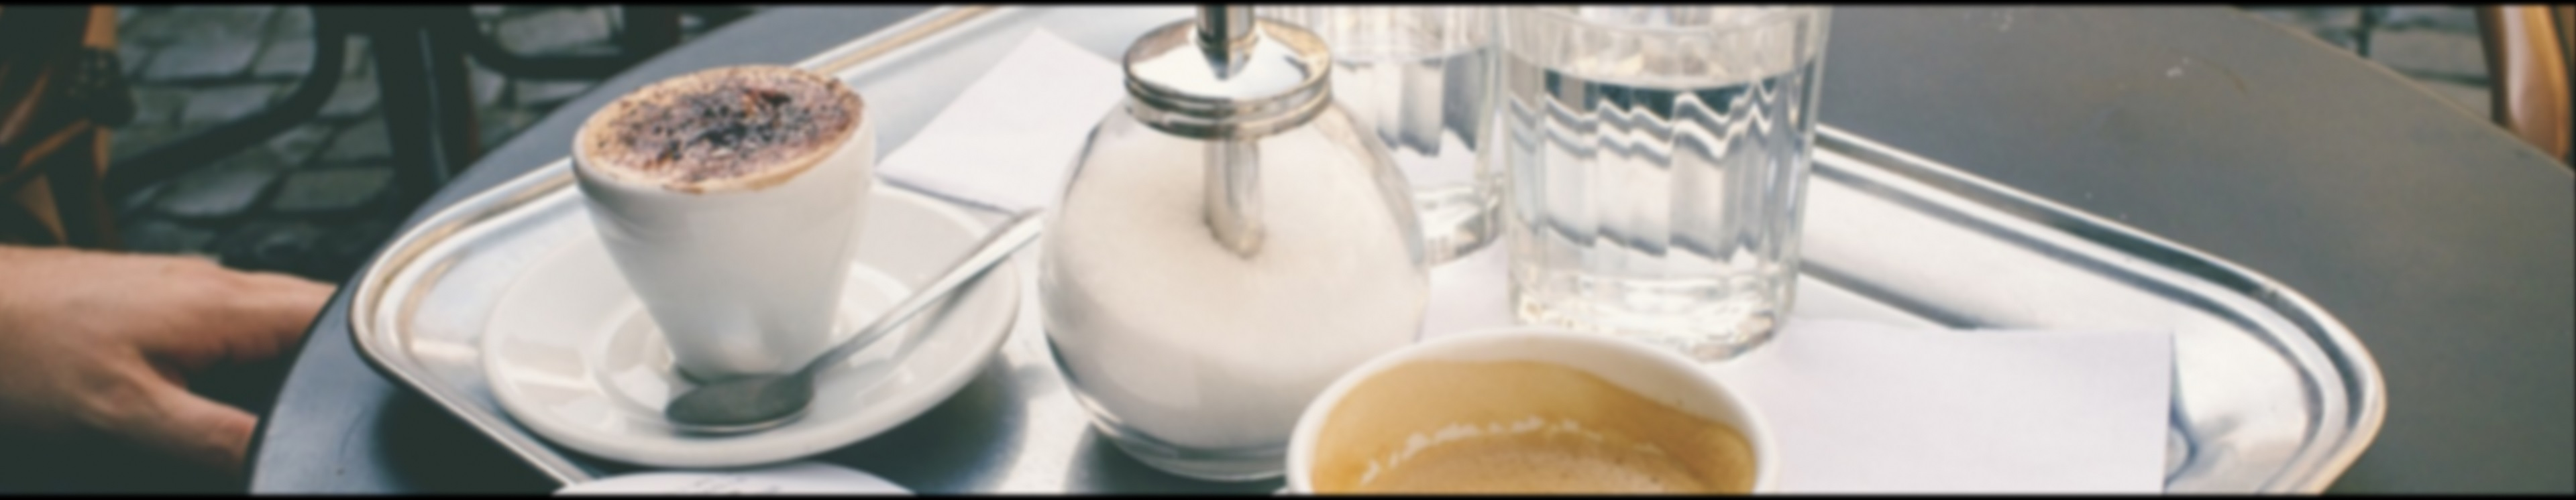
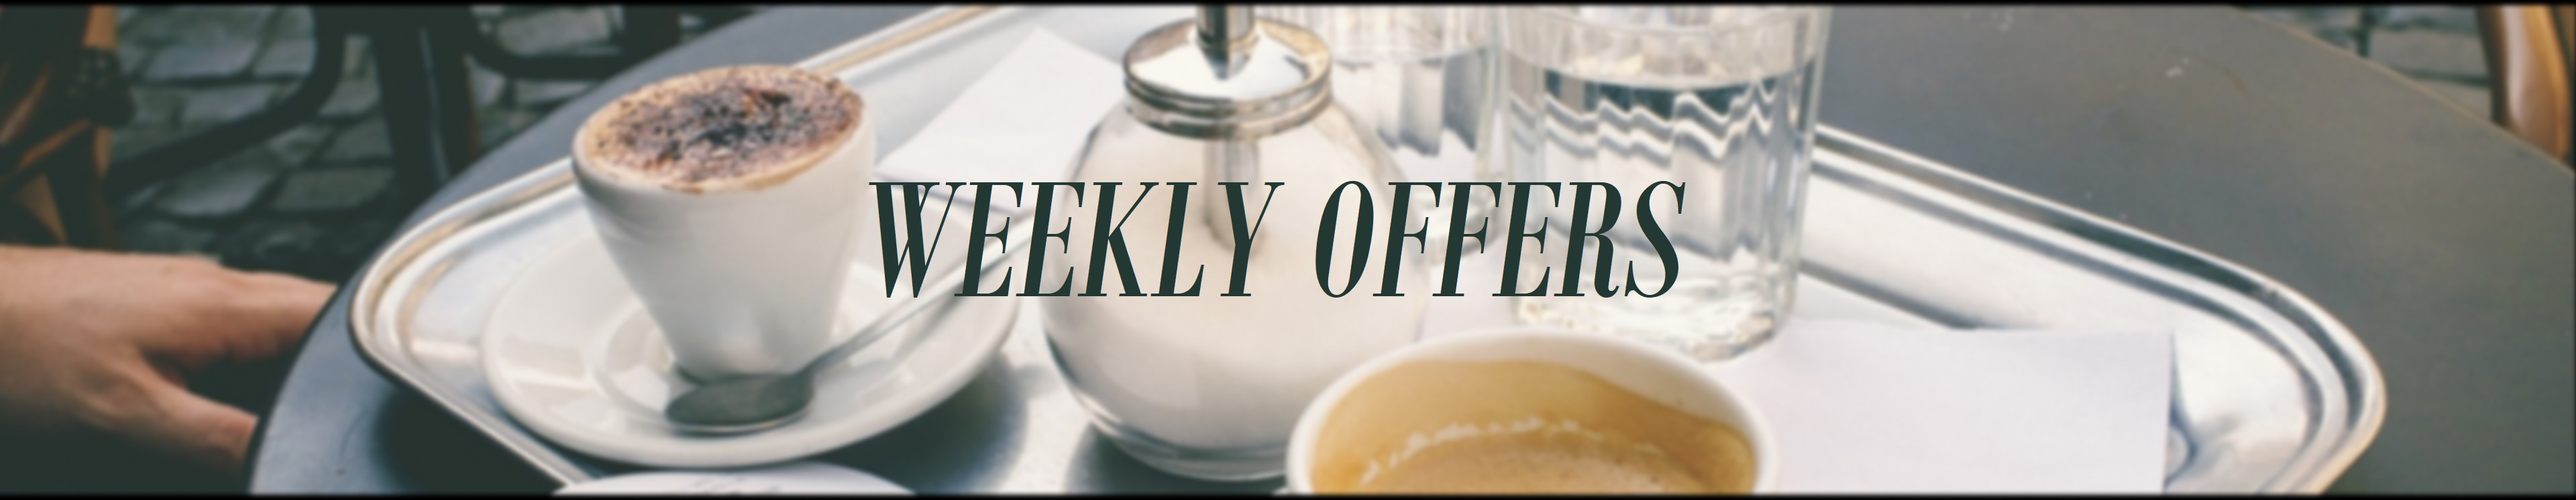
CAMBIOS MAIN

Changed region(s): [[0.3125, 0.3391, 0.6562, 0.6166]]

diff --git a/Paginas/MAINPAGE.html b/Paginas/MAINPAGE.html
@@ -35,14 +35,33 @@
     </div>
     <div class="grid-container">
         <div class="grid-item item1">
-            <img class="offer" src="../IMAGENES/Weekly offer.jpg">
-            <div class="texto-centrado"><b>WEEKLY OFFER</b></div>
+            <div class="slider">
+                <div class="slide_viewer">
+                  <div class="slide_group">
+                    <div class="slide">
+                    </div>
+                    <div class="slide">
+                    </div>
+                    <div class="slide">
+                    </div>
+                  </div>
+                </div>
+              </div>              
+              <div class="slide_buttons">
+              </div>
+              
+              <div class="directional_nav">
+                <div class="previous_btn" title="Previous">
+                </div>
+                <div class="next_btn" title="Next">
+                </div>
+              </div>
         </div>
         <div class="grid-item item2">
 
             <div class="cuadro">
                 <img class="foto"src="../IMAGENES/cuadro.jpg">
-                <button class="boton">MAKE YOUR ORRDER</button>
+                <a href="../Paginas/TAKEAWAY.html"><button class="boton">MAKE YOUR ORDER</button></a>
             </div>
             
         </div>
@@ -89,6 +108,98 @@
 
 
     </div>
+    <script src="https://ajax.googleapis.com/ajax/libs/jquery/2.1.3/jquery.min.js"></script>
+              <script>
+                $('.slider').each(function() {
+            var $this = $(this);
+            var $group = $this.find('.slide_group');
+            var $slides = $this.find('.slide');
+            var bulletArray = [];
+            var currentIndex = 0;
+            var timeout;
+            
+            function move(newIndex) {
+              var animateLeft, slideLeft;
+              
+              advance();
+              
+              if ($group.is(':animated') || currentIndex === newIndex) {
+                return;
+              }
+              
+              bulletArray[currentIndex].removeClass('active');
+              bulletArray[newIndex].addClass('active');
+              
+              if (newIndex > currentIndex) {
+                slideLeft = '100%';
+                animateLeft = '-100%';
+              } else {
+                slideLeft = '-100%';
+                animateLeft = '100%';
+              }
+              
+              $slides.eq(newIndex).css({
+                display: 'block',
+                left: slideLeft
+              });
+              $group.animate({
+                left: animateLeft
+              }, function() {
+                $slides.eq(currentIndex).css({
+                  display: 'none'
+                });
+                $slides.eq(newIndex).css({
+                  left: 0
+                });
+                $group.css({
+                  left: 0
+                });
+                currentIndex = newIndex;
+              });
+            }
+            
+            function advance() {
+              clearTimeout(timeout);
+              timeout = setTimeout(function() {
+                if (currentIndex < ($slides.length - 1)) {
+                  move(currentIndex + 1);
+                } else {
+                  move(0);
+                }
+              }, 4000);
+            }
+            
+            $('.next_btn').on('click', function() {
+              if (currentIndex < ($slides.length - 1)) {
+                move(currentIndex + 1);
+              } else {
+                move(0);
+              }
+            });
+            
+            $('.previous_btn').on('click', function() {
+              if (currentIndex !== 0) {
+                move(currentIndex - 1);
+              } else {
+                move(3);
+              }
+            });
+            
+            $.each($slides, function(index) {
+              var $button = $('<a class="slide_btn">&bull;</a>');
+              
+              if (index === currentIndex) {
+                $button.addClass('active');
+              }
+              $button.on('click', function() {
+                move(index);
+              }).appendTo('.slide_buttons');
+              bulletArray.push($button);
+            });
+            
+            advance();
+          });
+              </script>
 </body>
 
 </html>

diff --git a/Paginas/MAINPAGE.css b/Paginas/MAINPAGE.css
@@ -3,6 +3,7 @@
 * {
   font-family: 'Imbue', sans-serif;
   margin: 0;
+  padding: 0;
   /*outline: 1px solid red;*/
 }
 
@@ -118,6 +119,125 @@ display: block;
   }
 
 }
+
+.slider {
+  margin: 0 auto;
+  width: 100%;
+}
+
+.slide_viewer {
+  height: 340px;
+  overflow: hidden;
+  position: relative;
+}
+
+.slide_group {
+  height: 100%;
+  position: relative;
+  width: 100%;
+}
+
+.slide {
+  display: none;
+  height: 100%;
+  position: absolute;
+  width: 100%;
+}
+
+.slide:first-child {
+  display: block;
+}
+
+.slide:nth-of-type(1) {
+  background-image: url(../IMAGENES/fondo-sld-menu.jpg);
+  background-repeat: no-repeat;
+  background-size: cover;
+}
+
+.slide:nth-of-type(2) {
+  background-image: url(../IMAGENES/Weekly\ offer.jpg);
+  background-repeat: no-repeat;
+  background-size: cover;
+}
+
+.slide:nth-of-type(3) {
+  background-image: url(../IMAGENES/fondo-sld-tke.jpg);
+  background-repeat: no-repeat;
+  background-size: cover;
+}
+
+.slide_buttons {
+  left: 0;
+  position: absolute;
+  right: 0;
+  text-align: center;
+}
+
+a.slide_btn {
+  color: #474544;
+  font-size: 60px;
+  margin: 0 0.175em;
+  -webkit-transition: all 0.4s ease-in-out;
+  -moz-transition: all 0.4s ease-in-out;
+  -ms-transition: all 0.4s ease-in-out;
+  -o-transition: all 0.4s ease-in-out;
+  transition: all 0.4s ease-in-out;
+}
+
+.slide_btn.active, .slide_btn:hover {
+  color: #428CC6;
+  cursor: pointer;
+}
+
+.directional_nav {
+  height: 340px;
+  margin: 0 auto;
+  max-width: 940px;
+  position: relative;
+  top: -340px;
+}
+
+.previous_btn {
+  bottom: 0;
+  left: 100px;
+  margin: auto;
+  position: absolute;
+  top: 0;
+}
+
+.next_btn {
+  bottom: 0;
+  margin: auto;
+  position: absolute;
+  right: 100px;
+  top: 0;
+}
+
+.previous_btn, .next_btn {
+  cursor: pointer;
+  height: 65px;
+  opacity: 0.5;
+  -webkit-transition: opacity 0.4s ease-in-out;
+  -moz-transition: opacity 0.4s ease-in-out;
+  -ms-transition: opacity 0.4s ease-in-out;
+  -o-transition: opacity 0.4s ease-in-out;
+  transition: opacity 0.4s ease-in-out;
+  width: 65px;
+}
+
+.previous_btn:hover, .next_btn:hover {
+  opacity: 1;
+}
+
+@media only screen and (max-width: 767px) {
+  .previous_btn {
+    left: 50px;
+  }
+  .next_btn {
+    right: 50px;
+  }
+}
+
   .grid-container {
     display: grid;
     gap: 100px;
@@ -137,8 +257,7 @@ display: block;
     display: inline-block;
     position: relative;
     text-align: center;
-
-
+    height: 350px;
   }
 
   .texto-centrado {
